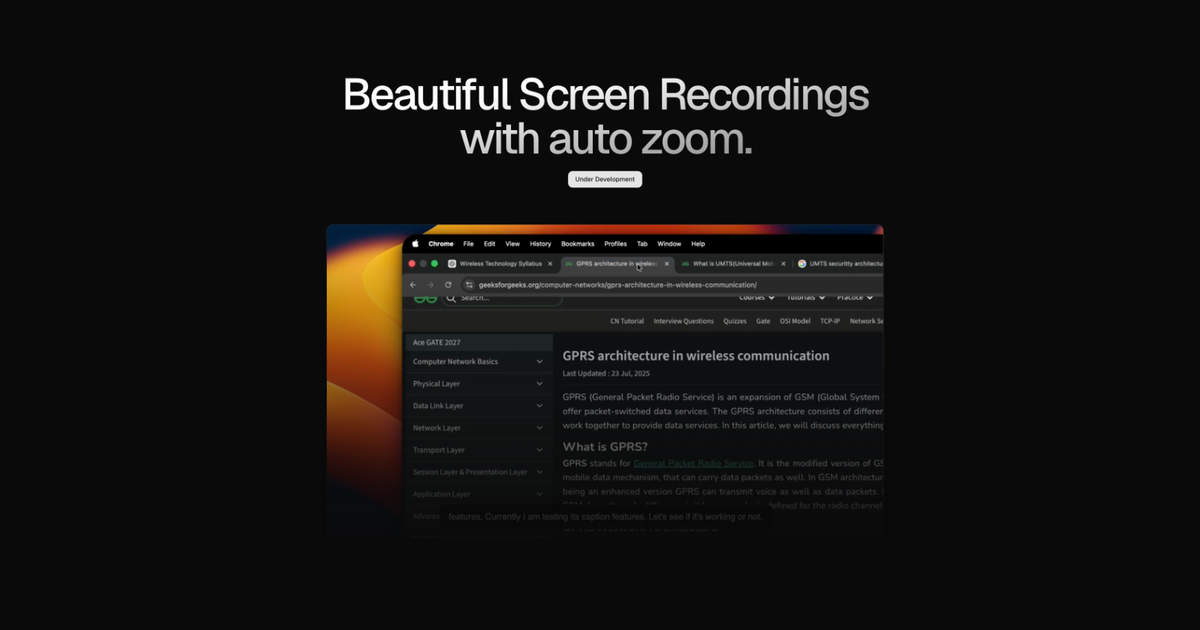
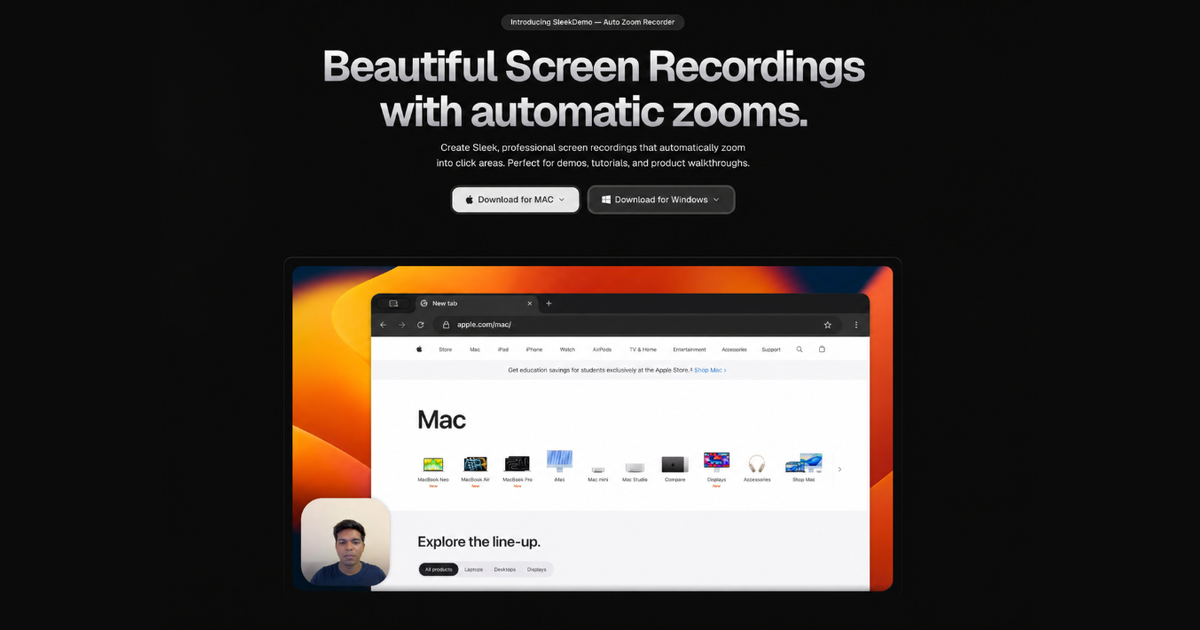
feat: add utility scripts to center and pad images for OG meta tags and update og-image.png

diff --git a/pad_image3.py b/pad_image3.py
@@ -1,0 +1,54 @@
+from PIL import Image, ImageDraw, ImageFilter
+import sys
+
+input_path = sys.argv[1]
+output_path = sys.argv[2]
+
+img = Image.open(input_path).convert("RGBA")
+
+# Target dimensions
+target_w, target_h = 1200, 630
+
+# Calculate scaling factor to fit within 1200x630
+img_w, img_h = img.size
+scale = min(target_w / img_w, target_h / img_h)
+
+new_w = int(img_w * scale)
+new_h = int(img_h * scale)
+
+img_resized = img.resize((new_w, new_h), Image.Resampling.LANCZOS)
+
+# Get the background color by sampling the edges (average of top-left and top-right)
+c1 = img_resized.getpixel((0, 0))
+c2 = img_resized.getpixel((new_w - 1, 0))
+bg_color = ((c1[0]+c2[0])//2, (c1[1]+c2[1])//2, (c1[2]+c2[2])//2, 255)
+
+# Create a gradient mask for feathering the left and right edges
+mask = Image.new("L", (new_w, new_h), 255)
+draw = ImageDraw.Draw(mask)
+fade_width = 30 # pixels to feather
+
+for x in range(fade_width):
+    # Left edge fade
+    alpha = int((x / fade_width) * 255)
+    draw.line([(x, 0), (x, new_h)], fill=alpha)
+    # Right edge fade
+    draw.line([(new_w - 1 - x, 0), (new_w - 1 - x, new_h)], fill=alpha)
+
+# Create a new image of the target size with the sampled background color
+new_img = Image.new("RGBA", (target_w, target_h), bg_color)
+
+# Paste the resized image onto the background using the feather mask
+x = (target_w - new_w) // 2
+y = (target_h - new_h) // 2
+
+# Create a composite of the resized image on the background using the mask
+temp_img = Image.new("RGBA", (new_w, new_h), bg_color)
+blended_resized = Image.composite(img_resized, temp_img, mask)
+
+new_img.paste(blended_resized, (x, y), blended_resized)
+
+# Save the result
+new_img.convert("RGB").save(output_path, quality=100)
+print(f"Sampled bg color: {bg_color}")
+print(f"Successfully saved {output_path} with size {new_img.size}")

diff --git a/pad_image2.py b/pad_image2.py
@@ -1,0 +1,41 @@
+from PIL import Image
+import sys
+
+input_path = sys.argv[1]
+output_path = sys.argv[2]
+
+img = Image.open(input_path).convert("RGBA")
+
+# Target dimensions
+target_w, target_h = 1200, 630
+
+# Calculate scaling factor to fit within 1200x630
+img_w, img_h = img.size
+scale = min(target_w / img_w, target_h / img_h)
+
+new_w = int(img_w * scale)
+new_h = int(img_h * scale)
+
+img_resized = img.resize((new_w, new_h), Image.Resampling.LANCZOS)
+
+# Get the background color by sampling the edges of the resized image
+# Let's sample the left and right edges (middle y)
+left_color = img_resized.getpixel((0, new_h // 2))
+right_color = img_resized.getpixel((new_w - 1, new_h // 2))
+
+# We'll use the left_color as the background color (assuming it's roughly symmetric)
+bg_color = left_color
+
+# Create a new image of the target size with the sampled background color
+new_img = Image.new("RGBA", (target_w, target_h), bg_color)
+
+# Paste the resized image onto the background
+x = (target_w - new_w) // 2
+y = (target_h - new_h) // 2
+
+new_img.paste(img_resized, (x, y), img_resized)
+
+# Save the result
+new_img.convert("RGB").save(output_path, quality=100)
+print(f"Sampled bg color: {bg_color}")
+print(f"Successfully saved {output_path} with size {new_img.size}")

diff --git a/pad_image.py b/pad_image.py
@@ -1,0 +1,36 @@
+from PIL import Image
+import sys
+
+input_path = sys.argv[1]
+output_path = sys.argv[2]
+
+# Open the original image
+img = Image.open(input_path)
+
+# Target dimensions
+target_w, target_h = 1200, 630
+
+# Calculate scaling factor to fit within 1200x630 while preserving aspect ratio
+img_w, img_h = img.size
+scale = min(target_w / img_w, target_h / img_h)
+
+# New dimensions after scaling
+new_w = int(img_w * scale)
+new_h = int(img_h * scale)
+
+# Resize the image using high-quality downsampling
+img_resized = img.resize((new_w, new_h), Image.Resampling.LANCZOS)
+
+# Create a new black image of the target size
+new_img = Image.new("RGB", (target_w, target_h), (0, 0, 0))
+
+# Calculate coordinates to paste the resized image in the center
+x = (target_w - new_w) // 2
+y = (target_h - new_h) // 2
+
+# Paste the resized image onto the black background
+new_img.paste(img_resized, (x, y))
+
+# Save the result
+new_img.save(output_path, quality=100)
+print(f"Successfully saved {output_path} with size {new_img.size}")
